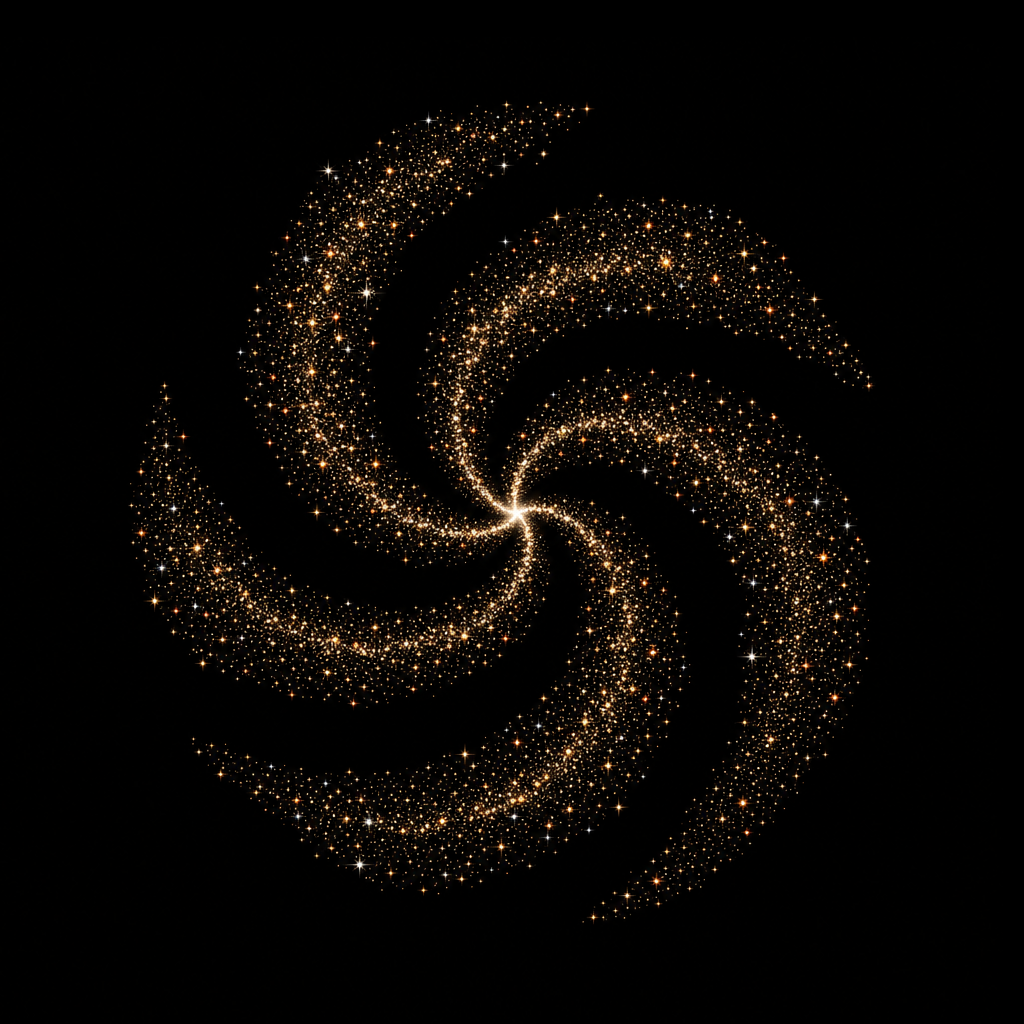
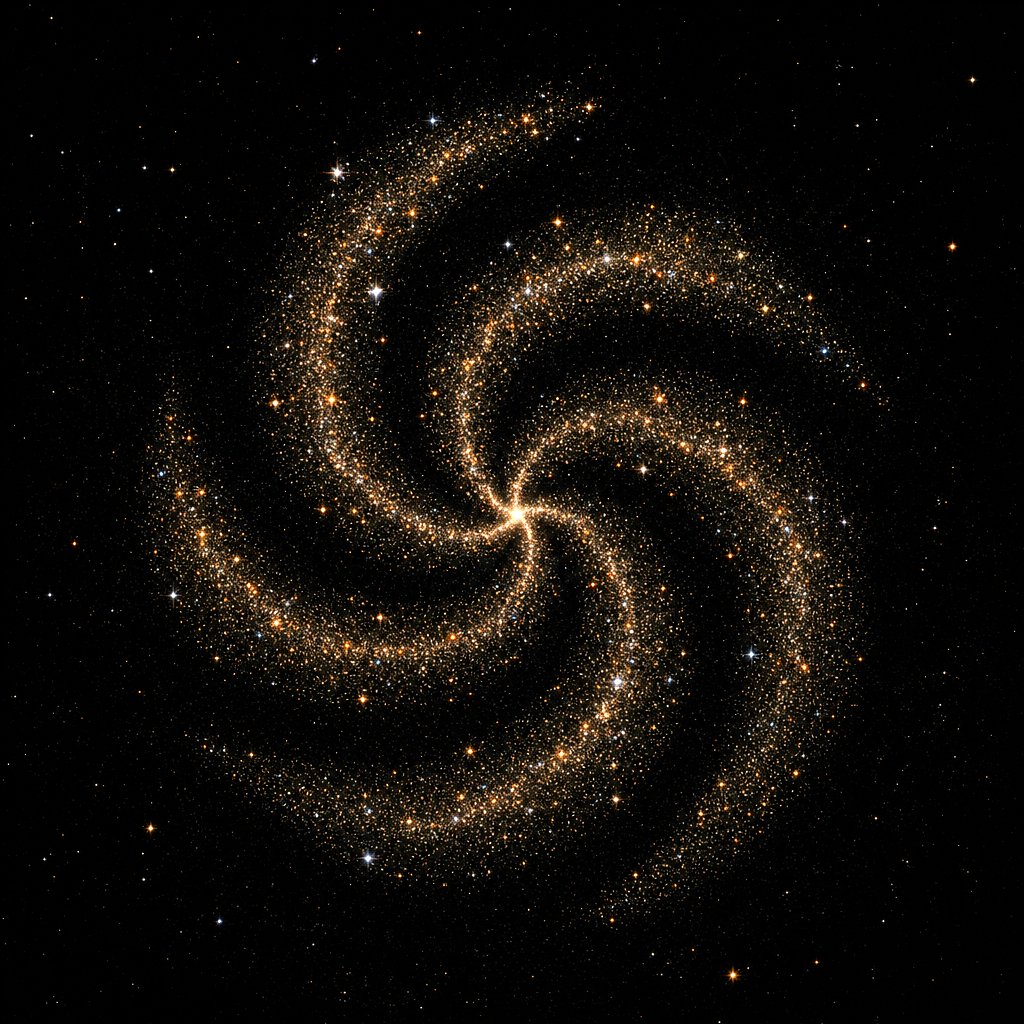
Brighter, more natural galaxy art
Star-dense, astrophotograph-style galaxy with brighter colours, centred.
Image link carries a version so Discord refreshes its cached copy.

Changed region(s): [[0.125, 0.0938, 0.8438, 0.9062], [0.8438, 0.375, 0.875, 0.4062], [0.6875, 0.9375, 0.7188, 0.9688]]

diff --git a/src/presence.js b/src/presence.js
@@ -43,7 +43,8 @@ export function effortLabel(id) {
 }
 
 // Card art: loaded by Discord straight from the public repo, so nobody has to upload it in the Developer Portal.
-export const GALAXY_URL = 'https://raw.githubusercontent.com/findastra/anthropic-discord-presence/main/public/galaxy.png';
+// Bump ?v= whenever galaxy.png changes so Discord fetches the new image instead of a cached one.
+export const GALAXY_URL = 'https://raw.githubusercontent.com/findastra/anthropic-discord-presence/main/public/galaxy.png?v=4';
 
 export function activity(startedAt, image = GALAXY_URL, project = '', model = '', effort = '') {
   if (startedAt === null) return null;
